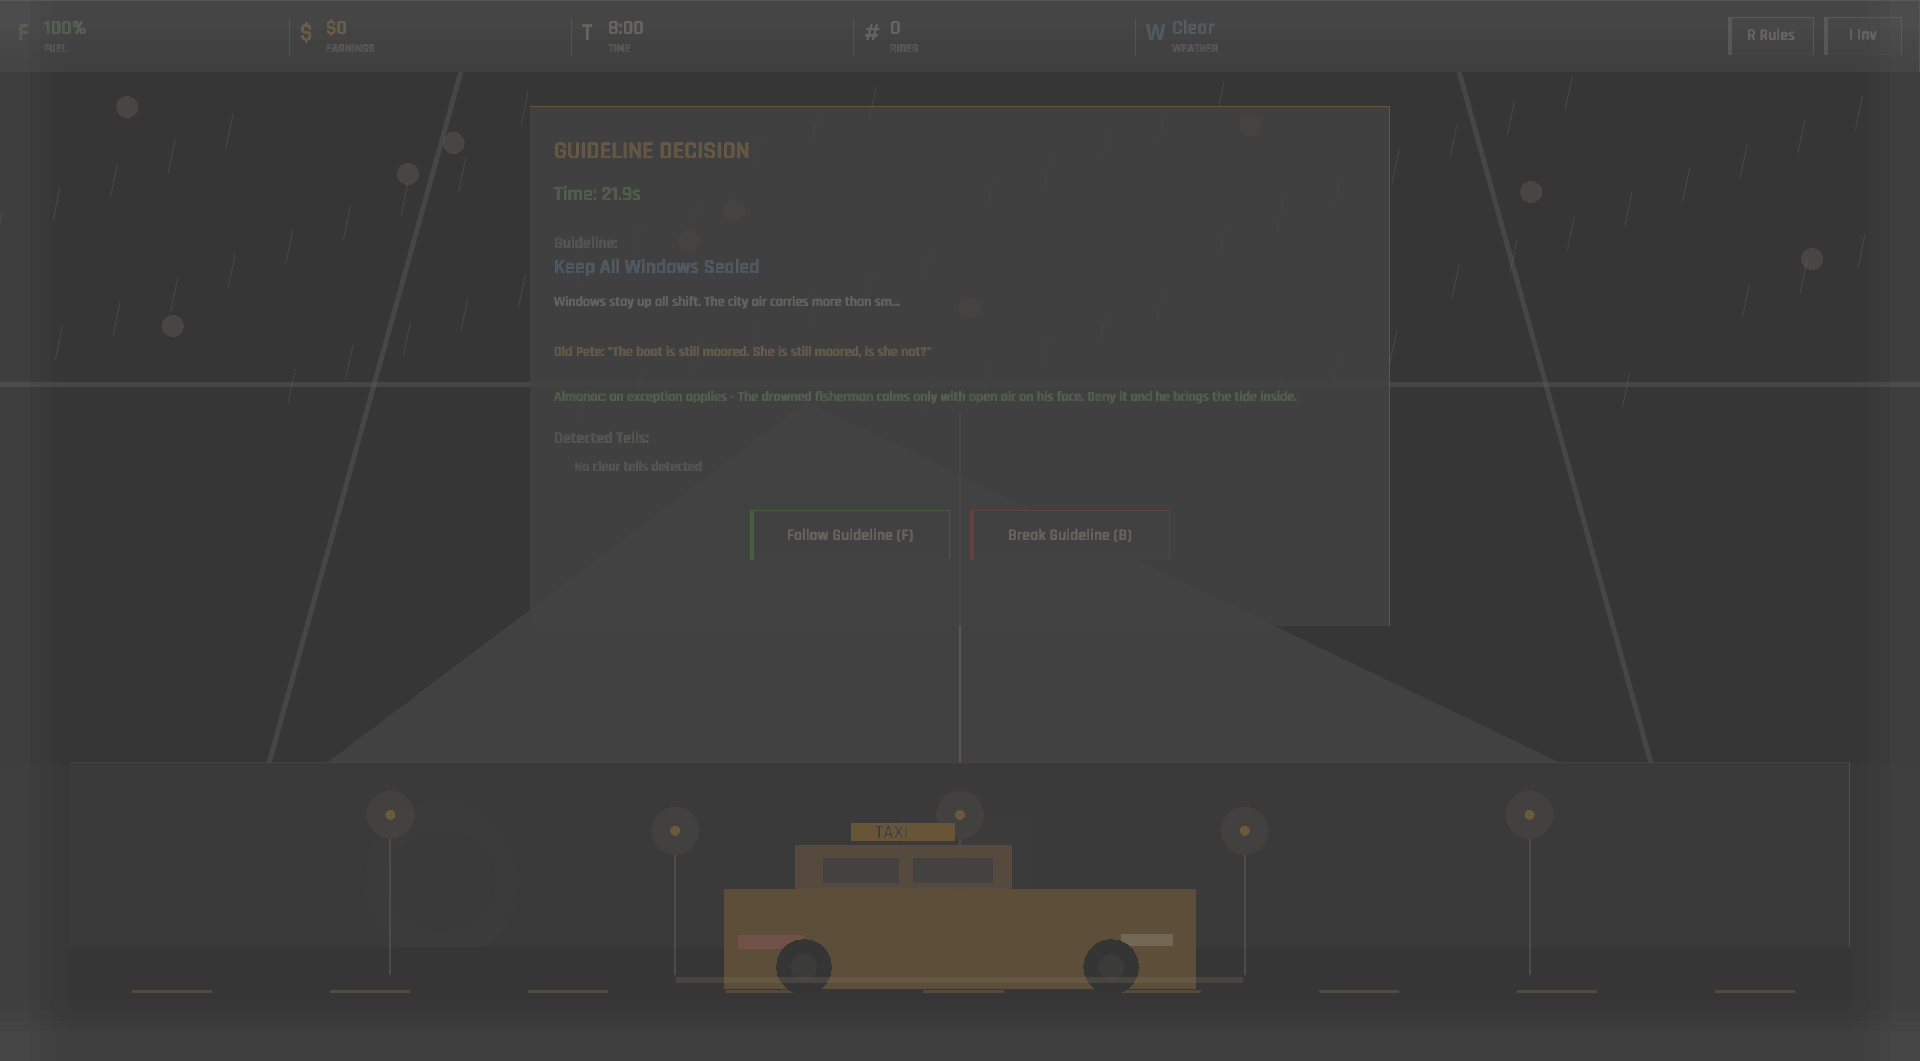
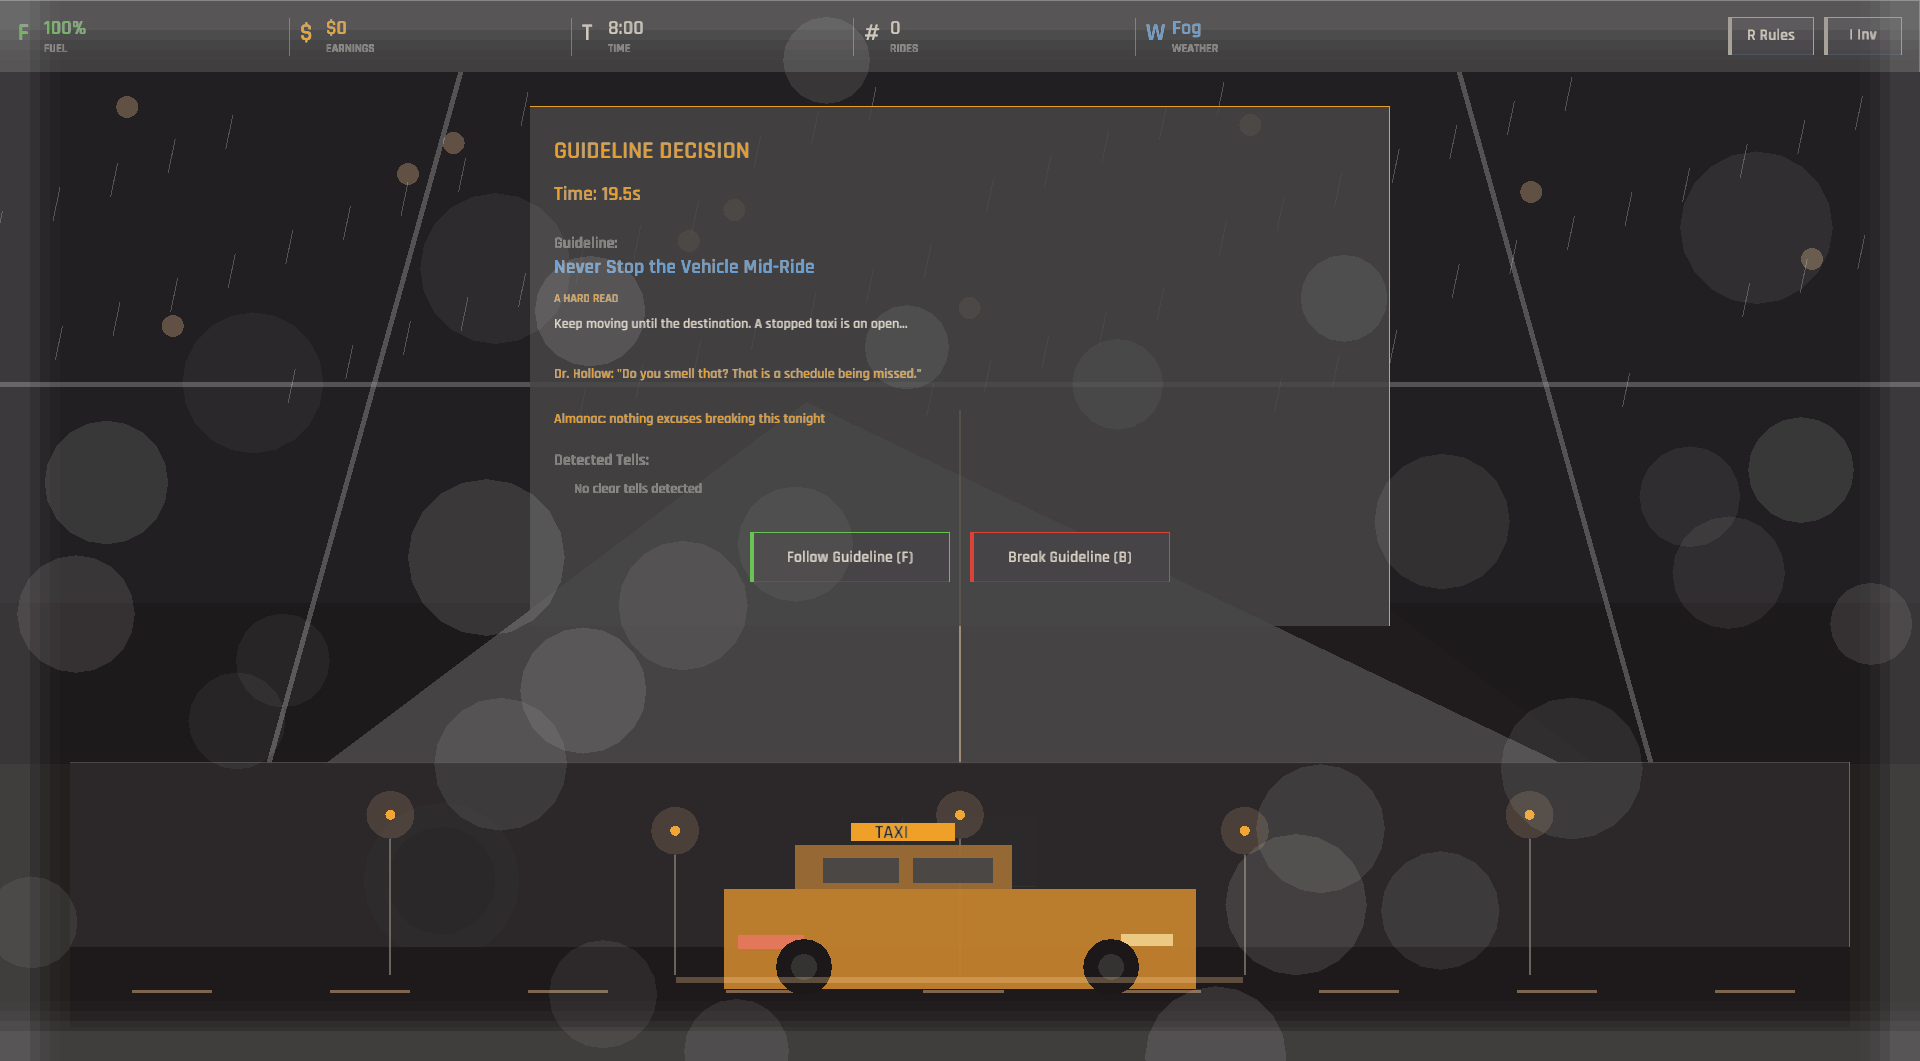
Some nights the exception just is not riding with you (exceptions[].probability rolled once per fare into live_exceptions, one truth for tells, judge, bot and almanac hint; guideline difficulty shown on the decision screen; visible and condition descriptions demoted to authoring notes)

diff --git a/src/engine/guideline_engine.rs b/src/engine/guideline_engine.rs
@@ -2,6 +2,7 @@
 
 use crate::data::*;
 use crate::state::*;
+use std::collections::HashSet;
 
 /// Result of guideline evaluation
 #[derive(Debug, Clone)]
@@ -19,12 +20,39 @@ pub struct GuidelineEvaluationResult {
 pub struct GuidelineEngine;
 
 impl GuidelineEngine {
+    /// Roll which of the guidelines' exceptions are live for this passenger.
+    ///
+    /// Every exception authors a `probability` (0.3–0.6 across the data) and
+    /// for the life of the port none was ever rolled — every matching
+    /// exception was always in play, so the night was more predictable than
+    /// the data asked it to be. Rolled once per presented passenger and kept
+    /// on the state, because the tell system, the decision judge, and the
+    /// bot must all see the same answer.
+    pub fn roll_exception_liveness(
+        passenger: &Passenger,
+        guidelines: &[Guideline],
+    ) -> HashSet<String> {
+        let mut live = HashSet::new();
+        for guideline in guidelines {
+            for exception in &guideline.exceptions {
+                if !Self::passenger_matches_exception(passenger, exception) {
+                    continue;
+                }
+                if macroquad_toolkit::rng::rand() < exception.probability.clamp(0.0, 1.0) {
+                    live.insert(exception.id.clone());
+                }
+            }
+        }
+        live
+    }
+
     /// Analyze passenger for active tells based on guidelines
     pub fn analyze_passenger(
         passenger: &Passenger,
         weather: &WeatherCondition,
         player_trust: f32,
         guidelines: &[Guideline],
+        live_exceptions: &HashSet<String>,
         current_time: f64,
     ) -> Vec<DetectedTell> {
         let mut detected = Vec::new();
@@ -33,6 +61,12 @@ impl GuidelineEngine {
             for exception in &guideline.exceptions {
                 // Check if passenger matches exception
                 if !Self::passenger_matches_exception(passenger, exception) {
+                    continue;
+                }
+
+                // The ride's liveness roll gates everything downstream: a
+                // rolled-out exception emits no tells and satisfies nothing.
+                if !live_exceptions.contains(&exception.id) {
                     continue;
                 }
 
@@ -72,20 +106,26 @@ impl GuidelineEngine {
                 let player_trust = state.player_trust;
                 let guidelines = state.current_guidelines.clone();
 
+                let live_exceptions = state.live_exceptions.clone();
                 let mut new_tells = Self::analyze_passenger(
                     &passenger,
                     &weather,
                     player_trust,
                     &guidelines,
+                    &live_exceptions,
                     current_time,
                 );
 
                 // Introduce a false tell for experienced players — at most
                 // one per decision, or the panel fills with fiction.
                 if !state.false_tell_planted && Self::should_introduce_false_tells(state, stats) {
-                    if let Some(false_tell) =
-                        Self::conjure_false_tell(&passenger, &weather, &guidelines, current_time)
-                    {
+                    if let Some(false_tell) = Self::conjure_false_tell(
+                        &passenger,
+                        &weather,
+                        &guidelines,
+                        &live_exceptions,
+                        current_time,
+                    ) {
                         new_tells.push(false_tell);
                         state.false_tell_planted = true;
                     }
@@ -117,6 +157,7 @@ impl GuidelineEngine {
         passenger: &Passenger,
         weather: &WeatherCondition,
         guidelines: &[Guideline],
+        live_exceptions: &HashSet<String>,
         current_time: f64,
     ) -> Option<DetectedTell> {
         let candidates: Vec<_> = guidelines
@@ -128,8 +169,12 @@ impl GuidelineEngine {
                     .map(move |exception| (guideline, exception))
             })
             .filter(|(_, exception)| {
+                // Dormant means any leg of liveness fails — including an
+                // exception that matched but lost its ride roll, which makes
+                // the most plausible bait of all.
                 exception.breaking_safer
                     && !(Self::passenger_matches_exception(passenger, exception)
+                        && live_exceptions.contains(&exception.id)
                         && Self::check_exception_conditions(exception, weather, passenger))
             })
             .flat_map(|(guideline, exception)| {
@@ -281,8 +326,12 @@ impl GuidelineEngine {
         state: &GameState,
     ) -> GuidelineEvaluationResult {
         // Find active exception
-        let active_exception =
-            Self::find_active_exception(guideline, passenger, &state.current_weather);
+        let active_exception = Self::find_active_exception(
+            guideline,
+            passenger,
+            &state.current_weather,
+            &state.live_exceptions,
+        );
 
         match (active_exception, action) {
             (Some(exc), GuidelineAction::Break) if exc.breaking_safer => {
@@ -355,9 +404,11 @@ impl GuidelineEngine {
         guideline: &Guideline,
         passenger: &Passenger,
         weather: &WeatherCondition,
+        live_exceptions: &HashSet<String>,
     ) -> Option<GuidelineException> {
         for exception in &guideline.exceptions {
             if Self::passenger_matches_exception(passenger, exception)
+                && live_exceptions.contains(&exception.id)
                 && Self::check_exception_conditions(exception, weather, passenger)
             {
                 return Some(exception.clone());

diff --git a/src/engine/guideline_engine/tests.rs b/src/engine/guideline_engine/tests.rs
@@ -141,12 +141,23 @@ fn deception_and_trust_required_agree() {
 fn a_conjured_tell_points_at_a_dormant_breaking_safer_exception() {
     let guidelines = load_guidelines();
     let weather = WeatherCondition::default();
+    // Every exception treated as having won its ride roll, so dormancy here
+    // means a failed match or condition and the assertions stay exact.
+    let all_live: std::collections::HashSet<String> = guidelines
+        .iter()
+        .flat_map(|g| g.exceptions.iter())
+        .map(|e| e.id.clone())
+        .collect();
     let mut conjured = 0;
     for passenger in load_passengers() {
         for _ in 0..10 {
-            let Some(tell) =
-                super::GuidelineEngine::conjure_false_tell(&passenger, &weather, &guidelines, 0.0)
-            else {
+            let Some(tell) = super::GuidelineEngine::conjure_false_tell(
+                &passenger,
+                &weather,
+                &guidelines,
+                &all_live,
+                0.0,
+            ) else {
                 continue;
             };
             conjured += 1;
@@ -176,6 +187,24 @@ fn a_conjured_tell_points_at_a_dormant_breaking_safer_exception() {
         }
     }
     assert!(conjured > 0, "no passenger ever yields a false tell");
+}
+
+/// Every exception must author a probability the ride roll can win. The
+/// serde default is 1.0 (always live), so this guards the one authorable
+/// mistake left: an explicit 0.0, which would make the exception — and
+/// every tell and relief hanging off it — permanently dormant.
+#[test]
+fn every_exception_authors_a_rollable_probability() {
+    for guideline in load_guidelines() {
+        for exception in &guideline.exceptions {
+            assert!(
+                exception.probability > 0.0 && exception.probability <= 1.0,
+                "exception {:?} authors probability {} and can never be live",
+                exception.id,
+                exception.probability
+            );
+        }
+    }
 }
 
 /// The false-tell gate opens only for a seasoned, currently-accurate

diff --git a/src/screens/game_screens/guidelines.rs b/src/screens/game_screens/guidelines.rs
@@ -5,8 +5,8 @@ use macroquad::prelude::*;
 use crate::data::{self, GameData};
 use crate::state::GameState;
 use crate::ui::{
-    colors, draw_cockpit_background, draw_glass_button, draw_glass_panel, draw_wrapped_text, fonts,
-    layout, spacing, UiAction, UiRect,
+    colors, draw_cockpit_background, draw_glass_button, draw_glass_panel, draw_small_caps,
+    draw_wrapped_text, fonts, layout, spacing, UiAction, UiRect,
 };
 use macroquad_toolkit::ui::draw_ui_text;
 
@@ -95,6 +95,24 @@ pub fn draw_guideline_decision(
             );
             y += 35.0;
 
+            // How hard this read is. Five difficulty tiers are authored
+            // across the guidelines and decided nothing until shown here.
+            let (difficulty_label, difficulty_color) = match guideline.difficulty {
+                data::Difficulty::Easy => ("An easy read", colors::FUEL_GOOD),
+                data::Difficulty::Medium => ("A fair read", colors::TEXT_MUTED),
+                data::Difficulty::Hard => ("A hard read", colors::ACCENT_WARNING),
+                data::Difficulty::Expert => ("An expert read", colors::ACCENT_WARNING),
+                data::Difficulty::Nightmare => ("A nightmare read", colors::FUEL_CRITICAL),
+            };
+            draw_small_caps(
+                difficulty_label,
+                inner.x,
+                y + 12.0,
+                fonts::SIZE_XS,
+                difficulty_color,
+            );
+            y += 22.0;
+
             // Description (truncated)
             let desc_preview = if guideline.description.len() > 60 {
                 format!("{}...", &guideline.description[..60])
@@ -149,6 +167,7 @@ pub fn draw_guideline_decision(
                         guideline,
                         passenger,
                         &game_state.current_weather,
+                        &game_state.live_exceptions,
                     );
                     let (verdict, colour) = match &active {
                         Some(exception) if exception.breaking_safer => (

diff --git a/src/data/rules.rs b/src/data/rules.rs
@@ -147,13 +147,14 @@ impl Rule {
 }
 
 /// A guideline exception condition
+// The JSON also authors a `description` per condition; it is a note for the
+// data author, read by nothing, and not deserialized.
 #[derive(Debug, Clone, Serialize, Deserialize)]
 pub struct ExceptionCondition {
     #[serde(rename = "type")]
     pub condition_type: String,
     pub value: serde_json::Value,
     pub operator: Option<String>,
-    pub description: String,
 }
 
 /// A guideline exception that inverts normal rule behavior
@@ -172,7 +173,9 @@ pub struct GuidelineException {
     pub breaking_safer: bool,
     #[serde(default)]
     pub description: String,
-    #[serde(default)]
+    /// Chance this exception is live for a given ride, rolled once per
+    /// passenger by `roll_exception_liveness`. Unauthored means always.
+    #[serde(default = "default_probability")]
     pub probability: f32,
     #[serde(rename = "requiredStage")]
     pub required_stage: Option<String>,
@@ -184,12 +187,13 @@ pub struct Guideline {
     pub id: u32,
     pub title: String,
     pub description: String,
+    /// How hard this read is, shown on the decision screen.
     #[serde(default)]
     pub difficulty: Difficulty,
-    #[serde(default)]
-    pub visible: bool,
-    // `type`, `isGuideline` and `defaultSafety` are authored on all eighteen
-    // guidelines and read by nothing. They are redundant rather than missing:
+    // `visible`, `type`, `isGuideline` and `defaultSafety` are authored on
+    // guidelines and read by nothing. `visible` has no surface to act on —
+    // there is no guideline list to hide an entry from; guidelines reach the
+    // player through tells and the decision screen. The rest are redundant:
     // whether an exception is reachable is decided by which *rule* was drawn
     // for the shift, via `related_guideline_id`, so a guideline's own type
     // selects nothing. `isGuideline` is true on all eighteen and

diff --git a/src/state/game_state.rs b/src/state/game_state.rs
@@ -446,6 +446,12 @@ pub struct GameState {
     /// gate would stack a new lie every few frames until the panel was all
     /// fiction. Cleared wherever `detected_tells` is.
     pub false_tell_planted: bool,
+    /// Exceptions that won their authored per-ride probability roll for the
+    /// current passenger. Rolled once when the passenger is presented, so
+    /// the tell system, the decision judge, and the bot all agree on which
+    /// exceptions are in play tonight — rolling at each ask would let them
+    /// disagree frame to frame.
+    pub live_exceptions: std::collections::HashSet<String>,
     pub environmental_hazards: Vec<EnvironmentalHazard>,
 
     // Persistence
@@ -529,6 +535,7 @@ impl GameState {
             season: Season::default(),
             campaign_month: DEFAULT_MONTH,
             false_tell_planted: false,
+            live_exceptions: std::collections::HashSet::new(),
             environmental_hazards: Vec::new(),
             passenger_reputation: HashMap::new(),
             minimum_earnings: constants.minimum_earnings,
@@ -575,6 +582,7 @@ impl GameState {
         self.current_passenger_need_state = None;
         self.detected_tells.clear();
         self.false_tell_planted = false;
+        self.live_exceptions.clear();
         self.route_history.clear();
         self.consecutive_route_streak = None;
         self.environmental_hazards.clear();

diff --git a/src/engine/ride_service.rs b/src/engine/ride_service.rs
@@ -100,6 +100,12 @@ impl RideService {
             PassengerStateMachine::initialize(&passenger, current_time);
         // Select dialogue once and store it
         state.current_passenger_dialogue = passenger.random_dialogue().map(|s| s.to_string());
+        // Roll which authored exceptions are in play for this fare, once,
+        // here — everything that asks afterwards must get one answer.
+        state.live_exceptions = crate::engine::GuidelineEngine::roll_exception_liveness(
+            &passenger,
+            &state.current_guidelines,
+        );
         state.current_passenger = Some(passenger);
         state.game_phase = GamePhase::RideRequest;
         true

diff --git a/src/bot/tactics.rs b/src/bot/tactics.rs
@@ -118,6 +118,7 @@ impl PlaytestBot {
                 guideline,
                 passenger,
                 &state.current_weather,
+                &state.live_exceptions,
             ) {
                 Some(exception) if exception.breaking_safer => UiAction::BreakGuideline,
                 _ => UiAction::FollowGuideline,

diff --git a/TODO.md b/TODO.md
@@ -6,7 +6,6 @@ Code and data that exist but never reach the player. Verified against the source
 
 ### Dead data (authored JSON → nothing)
 
-- `Guideline.visible` and `Guideline.difficulty` are deserialized but never read (five authored difficulty tiers decide nothing); `exceptions[].probability` is never rolled — `check_exception_conditions` is fully deterministic; `ExceptionCondition.description` is unread.
 - `skillTreeData.json`: `effect.type` distinguishes `stat_boost`/`mechanic_unlock`/`passive_bonus` but dispatch is entirely on `effect.target`; `effect.value` is discarded for the five passive ability unlocks; `third_eye_1`'s text promises a per-ride reveal but the roll happens once per shift.
 - `tells[].type`: only `verbal` is ever branched on; the 20 behavioral/visual/environmental tells are treated identically to each other.
 
